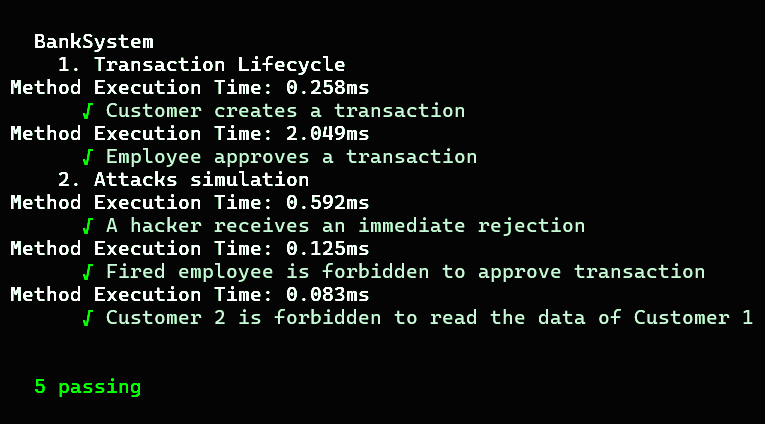
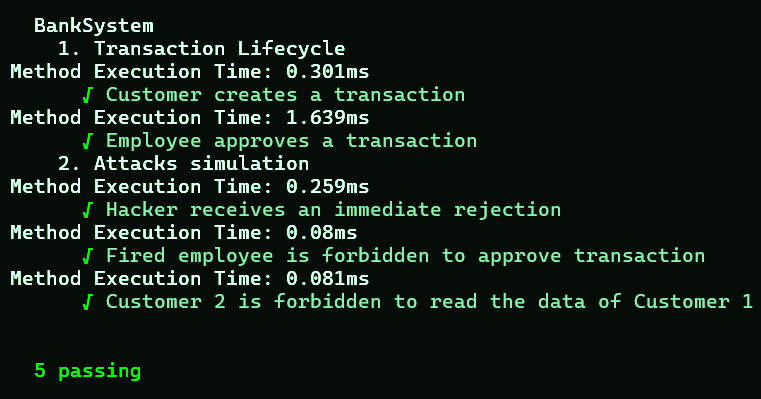
Changes

Changed region(s): [[0.0, 0.0301, 0.9974, 0.782], [0.0302, 0.8722, 0.1813, 0.9624]]

diff --git a/test/BankSystem.ts b/test/BankSystem.ts
@@ -59,7 +59,7 @@ describe("BankSystem", function () {
 			});
 		});
 		describe("2. Attacks simulation", function () {
-			it("A hacker receives an immediate rejection", async function () {
+			it("Hacker receives an immediate rejection", async function () {
 				const transferAmount = ethers.parseEther("1.0");
 				const createTx2 = await bank.connect(customer1).createTransfer(RECEIVER_ID, { value: transferAmount });
 				await expect(createTx2)